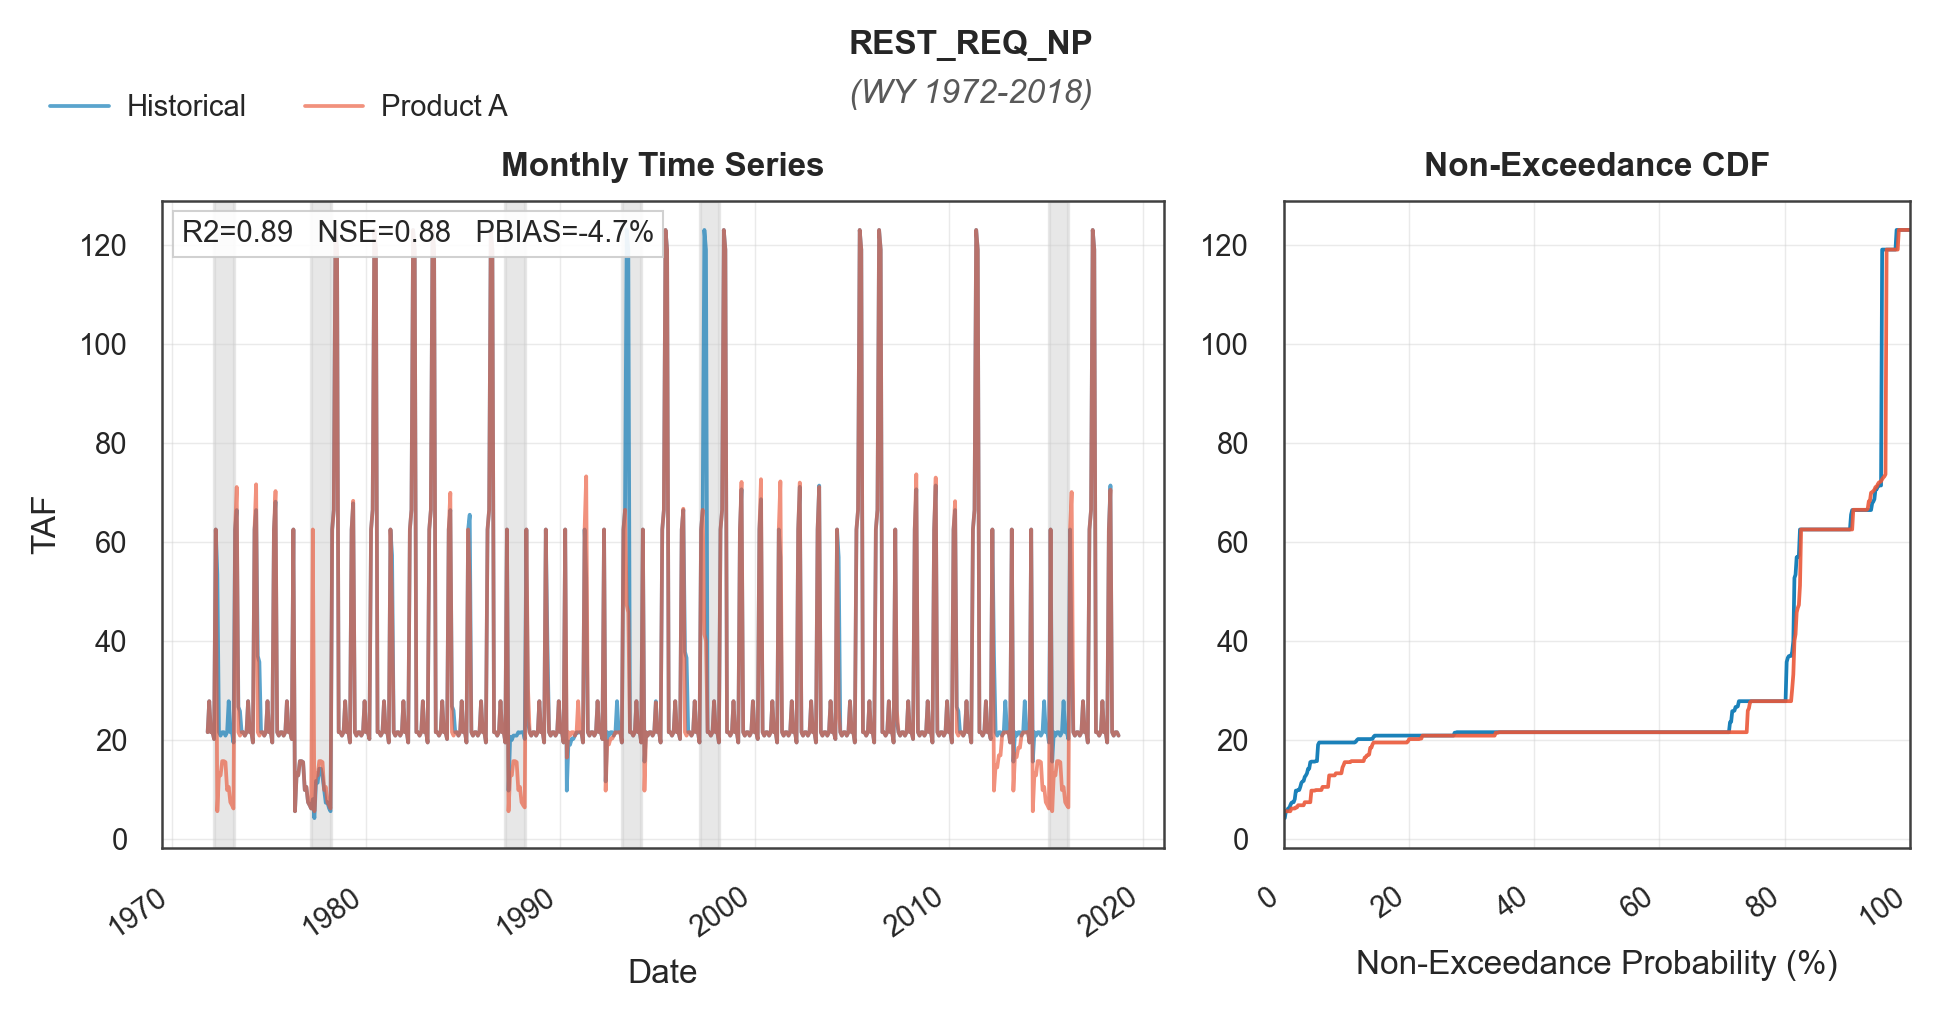
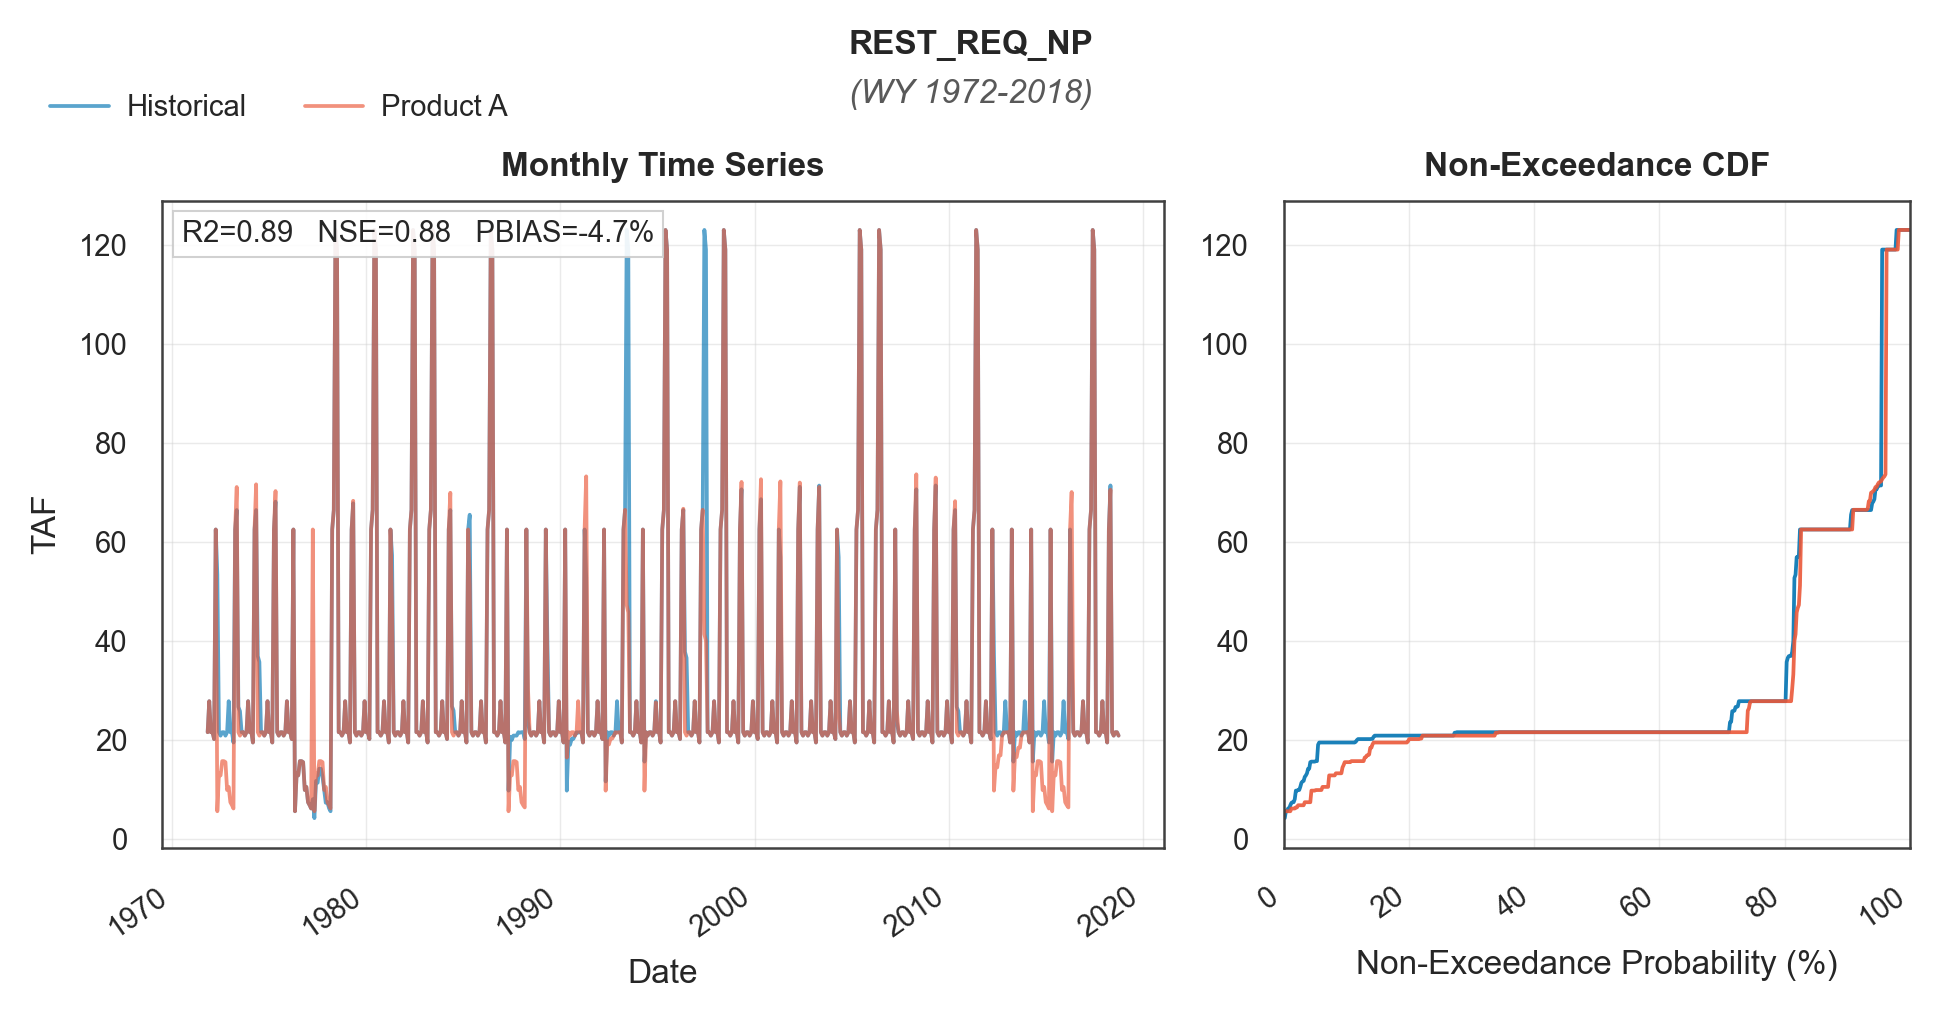
simplify SJR doc and validation figures
- remove threshold-crossing shading from code, figures, and text;
  mechanisms now explained in Results prose only
- remove pulse figure markers for consistency with other figures
- replace block rate table with a structural list of the twelve
  reference schedules and blocks, deferring rates to RFG Appendix C
- use Product A terminology for the WGEN-VIC-quantile mapped series,
  cite the rim inflow page, and fix R^2 math notation

diff --git a/mod_other/instream_flows/_2_sjr_rest_req.py b/mod_other/instream_flows/_2_sjr_rest_req.py
@@ -71,9 +71,6 @@ NORMAL_WET_RELEASE = 400.256
 NWET_PLUS_RELEASE = 547.444
 WET_RELEASE = 673.4872385
 
-# Runoff levels where annual_release_from_runoff jumps discontinuously.
-DISCONTINUITY_THRESHOLDS_TAF = (400.0, 670.0, 2500.0)
-
 # -----------------------------------------------------------------------------
 # release schedules from alpha sheet.
 # Periods:
@@ -562,23 +559,6 @@ def _fill_leading_edge(
     return np_series, p_series
 
 
-def threshold_crossing_years(
-    actual_unimp: pd.Series,
-    recon_unimp: pd.Series,
-) -> list[int]:
-    """Restoration years whose actual and reconstructed water year runoff
-    totals straddle a schedule discontinuity."""
-    act = build_water_year_totals(actual_unimp.dropna())
-    rec = build_water_year_totals(recon_unimp.dropna())
-    years: list[int] = []
-    for wy in sorted(set(act.index) & set(rec.index)):
-        lo = min(float(act.loc[wy]), float(rec.loc[wy]))
-        hi = max(float(act.loc[wy]), float(rec.loc[wy]))
-        if any(lo < t <= hi for t in DISCONTINUITY_THRESHOLDS_TAF):
-            years.append(int(wy))
-    return years
-
-
 def plot_product_a_validation(
     np_series: pd.Series,
     p_series: pd.Series,
@@ -588,15 +568,12 @@ def plot_product_a_validation(
     nonpulse_bpart: str = "REST_REQ_NP",
     plot_start: str | pd.Timestamp = "1971-10-01",
     plot_end: str | pd.Timestamp = "2018-09-30",
-    crossing_years: list[int] | None = None,
 ) -> list[Path]:
     """Write the canonical TS+CDF validation figures for Product A.
 
     One ``<part_b>.png`` per component comparing the reconstruction against
     the actual CalSim input, in the shared ``utils.validation_plots`` style.
     Non-pulse compares monthly values; pulse compares April values only.
-    ``crossing_years`` restoration years (Mar-Feb) are shaded on the
-    non-pulse panel.
     """
     import matplotlib.pyplot as plt
     from utils.validation_plots import Series, plot_ts_cdf
@@ -610,9 +587,9 @@ def plot_product_a_validation(
     p_recon = p_recon[p_recon.index.month == 4]
 
     written: list[Path] = []
-    for bpart, recon, title, shade in (
-        (nonpulse_bpart, np_recon, nonpulse_bpart, True),
-        (pulse_bpart, p_recon, f"{pulse_bpart} (April values)", False),
+    for bpart, recon, title in (
+        (nonpulse_bpart, np_recon, nonpulse_bpart),
+        (pulse_bpart, p_recon, f"{pulse_bpart} (April values)"),
     ):
         actual = actual_rest_req.get(bpart, pd.Series(dtype=float)).reindex(recon.index)
         if actual.dropna().empty:
@@ -629,19 +606,8 @@ def plot_product_a_validation(
             compute_metrics_from=0,
         )
         if bpart == pulse_bpart:
-            # One value per restoration year: mark the points and retitle.
-            ax_ts = fig.axes[0]
-            ax_ts.set_title("April Values by Restoration Year")
-            for line in ax_ts.lines:
-                line.set_marker("o")
-                line.set_markersize(2.8)
-        if shade:
-            ax_ts = fig.axes[0]
-            for ry in crossing_years or []:
-                band_lo = max(pd.Timestamp(ry, 3, 1), start)
-                band_hi = min(pd.Timestamp(ry + 1, 3, 1), end)
-                if band_lo < band_hi:
-                    ax_ts.axvspan(band_lo, band_hi, color="0.82", alpha=0.5, zorder=0)
+            # One value per restoration year.
+            fig.axes[0].set_title("April Values by Restoration Year")
         fig.savefig(out_path, bbox_inches="tight", facecolor="white", dpi=300)
         plt.close(fig)
         written.append(out_path)
@@ -656,7 +622,6 @@ def run_product_a(
     part_c: str,
     default_rest_req: dict[str, pd.Series] | None = None,
     figures_dir: Path | None = None,
-    actual_unimp: pd.Series | None = None,
 ) -> list[Path]:
     inflow = read_unimp_csv(product_a_csv)
     recon = reconstruct_rest_req(inflow)
@@ -670,15 +635,10 @@ def run_product_a(
     to_output_format(np_series, nonpulse_bpart, part_c).to_csv(np_path, index=False)
     written = [pulse_path, np_path]
     if figures_dir is not None and default_rest_req is not None:
-        crossing = None
-        if actual_unimp is not None and not actual_unimp.dropna().empty:
-            crossing = threshold_crossing_years(actual_unimp, inflow)
-            print(f"Threshold-crossing restoration years: {crossing}")
         written.extend(
             plot_product_a_validation(
                 np_series, p_series, default_rest_req, figures_dir,
                 pulse_bpart=pulse_bpart, nonpulse_bpart=nonpulse_bpart,
-                crossing_years=crossing,
             )
         )
     return written
@@ -751,12 +711,6 @@ def main() -> None:
         default_rest_req = get_default_calsim_rest_req(dssfile=DSS_FILE)
 
         if args.product == "A":
-            # Actual DSS unimpaired flow, used to flag threshold-crossing years.
-            unimp_map = read_calsim_monthly_pairs(
-                DSS_FILE, [("UNIMP_SJ", "FLOW-UNIMPAIRED")])
-            actual_unimp = unimp_map.get(
-                ("UNIMP_SJ", "FLOW-UNIMPAIRED"), pd.Series(dtype=float))
-
             written.extend(
                 run_product_a(
                     product_a_csv=DEFAULT_PRODUCT_A,
@@ -766,7 +720,6 @@ def main() -> None:
                     part_c="RELEASE-HYDROGRAPH",
                     default_rest_req=default_rest_req,
                     figures_dir=DEFAULT_OUT_FIG_A,
-                    actual_unimp=actual_unimp,
                 )
             )
         else:

diff --git a/docs/source/input-generation/mod-other-instream-flows.md b/docs/source/input-generation/mod-other-instream-flows.md
@@ -32,34 +32,30 @@ San Joaquin River unimpaired runoff into Millerton Lake is the sole hydrologic i
 
 The allocation is discontinuous at the 400 TAF, 670 TAF, and 2.5 MAF thresholds, so small runoff differences near these values can shift the schedule between year types.
 
-Second, the annual allocation is converted into a release schedule. The workbook defines a reference schedule for each of the six principal year types, plus six transitional schedules between them, matching the Friant Dam default restoration flow schedules in Appendix C of the Guidelines. Each reference schedule carries a fixed annual release total and prescribes release rates over twelve sub-annual blocks; the block rates for the six principal year types are shown below in CFS. For a given year, the two reference schedules whose annual totals bracket the year's allocation are selected, and their block rates are interpolated linearly in proportion to the allocation.
+Second, the annual allocation is converted into a release schedule. The workbook defines twelve reference schedules, matching the Friant Dam default restoration flow schedules in Appendix C of the Guidelines, which tabulates the full release rates. Each reference schedule carries a fixed annual release total and prescribes a release rate for each of twelve sub-annual blocks:
 
-| Block | Critical-Low | Critical-High | Dry | Normal-Dry | Normal-Wet | Wet |
-|---|---|---|---|---|---|---|
-| Mar 1-15 | 130 | 500 | 500 | 500 | 500 | 500 |
-| Mar 16-31 | 130 | 1,500 | 1,500 | 1,500 | 1,500 | 1,500 |
-| Apr 1-15 | 150 | 200 | 350 | 2,500 | 2,500 | 2,500 |
-| Apr 16-30 | 150 | 200 | 350 | 350 | 4,000 | 4,000 |
-| May-Jun | 190 | 215 | 350 | 350 | 350 | 2,000 |
-| Jul-Aug | 230 | 255 | 350 | 350 | 350 | 350 |
-| Sep | 210 | 260 | 350 | 350 | 350 | 350 |
-| Oct | 160 | 160 | 350 | 350 | 350 | 350 |
-| Nov 1-6 | 130 | 400 | 700 | 700 | 700 | 700 |
-| Nov 7-10 | 120 | 120 | 700 | 700 | 700 | 700 |
-| Nov 11-Dec 31 | 120 | 120 | 350 | 350 | 350 | 350 |
-| Jan-Feb | 100 | 110 | 350 | 350 | 350 | 350 |
+```{list-table}
+:widths: 30 70
+
+* - Reference schedules (driest to wettest)
+  - Critical-Low, Critical-High, CH to Dry 1 through 5, Dry, Normal-Dry, Normal-Wet, N-Wet (+), Wet
+* - Sub-annual blocks
+  - Mar 1-15, Mar 16-31, Apr 1-15, Apr 16-30, May-Jun, Jul-Aug, Sep, Oct, Nov 1-6, Nov 7-10, Nov 11-Dec 31, Jan-Feb
+```
+
+For a given year, the two reference schedules whose annual totals bracket the year's allocation are selected, and their block rates are interpolated linearly in proportion to the allocation.
 
 The resulting schedule applies over a restoration year running from March through February, keyed to the corresponding water year runoff total. Monthly CalSim inputs are obtained by weighting the block release rates by their number of days in each month and rounding to whole CFS. In April, the pulse rate is applied over the final 16 days and the non-pulse series receives the remaining volume, following the April encoding described above.
 
 
 ### Results
 
-The reconstruction was evaluated with two comparisons that separate reproduction of the workbook logic from the effects of substituting VIC-based hydrology. The first comparison drives the reconstruction with the same historical UNIMP_SJ series used to develop the CalSim 3 reference inputs, so remaining differences reflect the algorithm alone. Over WY 1922-2021 the reconstruction achieves NSE = 0.99 against the reference inputs for both the monthly non-pulse series and the April pulse values.
+The reconstruction was evaluated with two comparisons that separate reproduction of the workbook logic from the effects of substituting the Product A hydrology. The first comparison drives the reconstruction with the same historical UNIMP_SJ series used to develop the CalSim 3 reference inputs, so remaining differences reflect the algorithm alone. Over WY 1922-2021 the reconstruction achieves NSE = 0.99 against the reference inputs for both the monthly non-pulse series and the April pulse values.
 
-The second comparison drives the reconstruction with the VIC-based UNIMP_SJ series developed for Product A and compares the result with the same reference inputs. In each figure below the left panel shows the series and the right panel their non-exceedance distributions. Over WY 1972-2018 the monthly non-pulse series achieves R^2 = 0.89, NSE = 0.88, and PBIAS = -4.7%; the April pulse values achieve R^2 = 0.80, NSE = 0.77, and PBIAS = -12.2%. Because the first comparison establishes near exact reproduction of the workbook logic, these differences primarily reflect differences between the VIC-based and historical estimates of San Joaquin River unimpaired runoff into Millerton Lake. Non-pulse discrepancies concentrate in years where the two runoff estimates fall on opposite sides of a discontinuous schedule threshold (shaded gray in the non-pulse figure). The effect is largest at the 2.5 MAF threshold, where the May-Jun rate steps from 350 to 2,000 CFS: a year whose historical runoff falls just above 2.5 MAF while the VIC-based runoff falls just below receives very different May and June requirements. The April pulse is instead sensitive across a wide runoff range. Its Apr 16-30 rate is 350 CFS in the Normal-Dry reference schedule and 4,000 CFS in the Normal-Wet reference schedule, so allocations between the two, corresponding to roughly 1.2 to 2.0 MAF of annual runoff, place the pulse on a steep interpolated ramp. Runoff disagreements within this range produce large pulse differences without any threshold crossing. In WY 1973, for example, the historical runoff estimate (2.0 MAF) yields the full 4,000 CFS pulse, while the VIC-based estimate (1.5 MAF) yields roughly 1,700 CFS. Negative PBIAS indicates the reconstruction is lower in aggregate than the reference, consistent with lower VIC-based runoff estimates in most divergent years.
+The second comparison drives the reconstruction with the Product A UNIMP_SJ series, produced by running the VIC hydrologic model on WGEN generated weather and quantile mapping the simulated flows to the CalSim rim inflow series ({doc}`mod-hydrology-rim-inflow`), and compares the result with the same reference inputs. In each figure below the left panel shows the series and the right panel their non-exceedance distributions. Over WY 1972-2018 the monthly non-pulse series achieves $R^2$ = 0.89, NSE = 0.88, and PBIAS = -4.7%; the April pulse values achieve $R^2$ = 0.80, NSE = 0.77, and PBIAS = -12.2%. Because the first comparison establishes near exact reproduction of the workbook logic, these differences primarily reflect differences between the Product A and historical estimates of San Joaquin River unimpaired runoff into Millerton Lake. Non-pulse discrepancies concentrate in years where the two runoff estimates fall on opposite sides of a discontinuous threshold (400 TAF, 670 TAF, or 2.5 MAF). Pulse discrepancies do not require a threshold crossing: between the Normal-Dry and Normal-Wet schedules the April 16-30 rate increases continuously with the annual allocation, from 350 to 4,000 CFS, so two runoff estimates that differ within this range map to substantially different pulse rates. In WY 1973, for example, the historical runoff estimate (2.0 MAF) yields the full 4,000 CFS pulse, while the Product A estimate (1.5 MAF) yields roughly 1,700 CFS. Negative PBIAS indicates the reconstruction is lower in aggregate than the reference, consistent with lower Product A runoff estimates in most divergent years.
 
 ![REST_REQ_NP reconstruction](figures/s3-inputs_sjr-rest-req-np-validation.png)
-*`REST_REQ_NP` non-pulse restoration requirement reconstruction (WY 1972-2018). NSE = 0.88, PBIAS = -4.7%; Product A (orange) vs historical (blue). Gray bands mark restoration years where the historical and VIC-based annual runoff estimates fall on opposite sides of a discontinuous schedule threshold (400 TAF, 670 TAF, or 2.5 MAF). Statistics are computed from monthly values.*
+*`REST_REQ_NP` non-pulse restoration requirement reconstruction (WY 1972-2018). NSE = 0.88, PBIAS = -4.7%; Product A (orange) vs historical (blue). Statistics are computed from monthly values.*
 
 ![REST_REQ_P reconstruction](figures/s3-inputs_sjr-rest-req-p-validation.png)
 *`REST_REQ_P` pulse restoration requirement reconstruction, April values (WY 1972-2018; pulse flows apply only during April). NSE = 0.77, PBIAS = -12.2%; Product A (orange) vs historical (blue). Differences track runoff disagreement across the steep April ramp of the release schedules rather than threshold crossings. Statistics are computed from April values only.*
@@ -93,10 +89,10 @@ Condition 4 from the original 1983 agreement was deliberately excluded from the 
 
 ### Results
 
-The reconstructed Feather River minimum flows achieve R^2 = 0.89 over the validation period, indicating strong replication of historical patterns. The threshold-based approach successfully captures the discrete operational rules while remaining applicable to novel hydrologic sequences not present in the training data.
+The reconstructed Feather River minimum flows achieve $R^2$ = 0.89 over the validation period, indicating strong replication of historical patterns. The threshold-based approach successfully captures the discrete operational rules while remaining applicable to novel hydrologic sequences not present in the training data.
 
 ![Feather MIF Validation](figures/s3-inputs_feather-mif-validation.png)
-*Feather River minimum required flow (CFS) validation, 1921--2021. Actual CalSim input DSS (blue) is available from approximately 1950 onward; reconstructed values (orange) cover the full period. Flow values step between discrete threshold levels (750, 800, 900, 1,000, 1,200, and 1,700 CFS) determined by the three-condition logic based on annual Oroville inflow. Strong agreement in the overlap period (R^2 = 0.89).*
+*Feather River minimum required flow (CFS) validation, 1921--2021. Actual CalSim input DSS (blue) is available from approximately 1950 onward; reconstructed values (orange) cover the full period. Flow values step between discrete threshold levels (750, 800, 900, 1,000, 1,200, and 1,700 CFS) determined by the three-condition logic based on annual Oroville inflow. Strong agreement in the overlap period ($R^2$ = 0.89).*
 
 ## References
 
